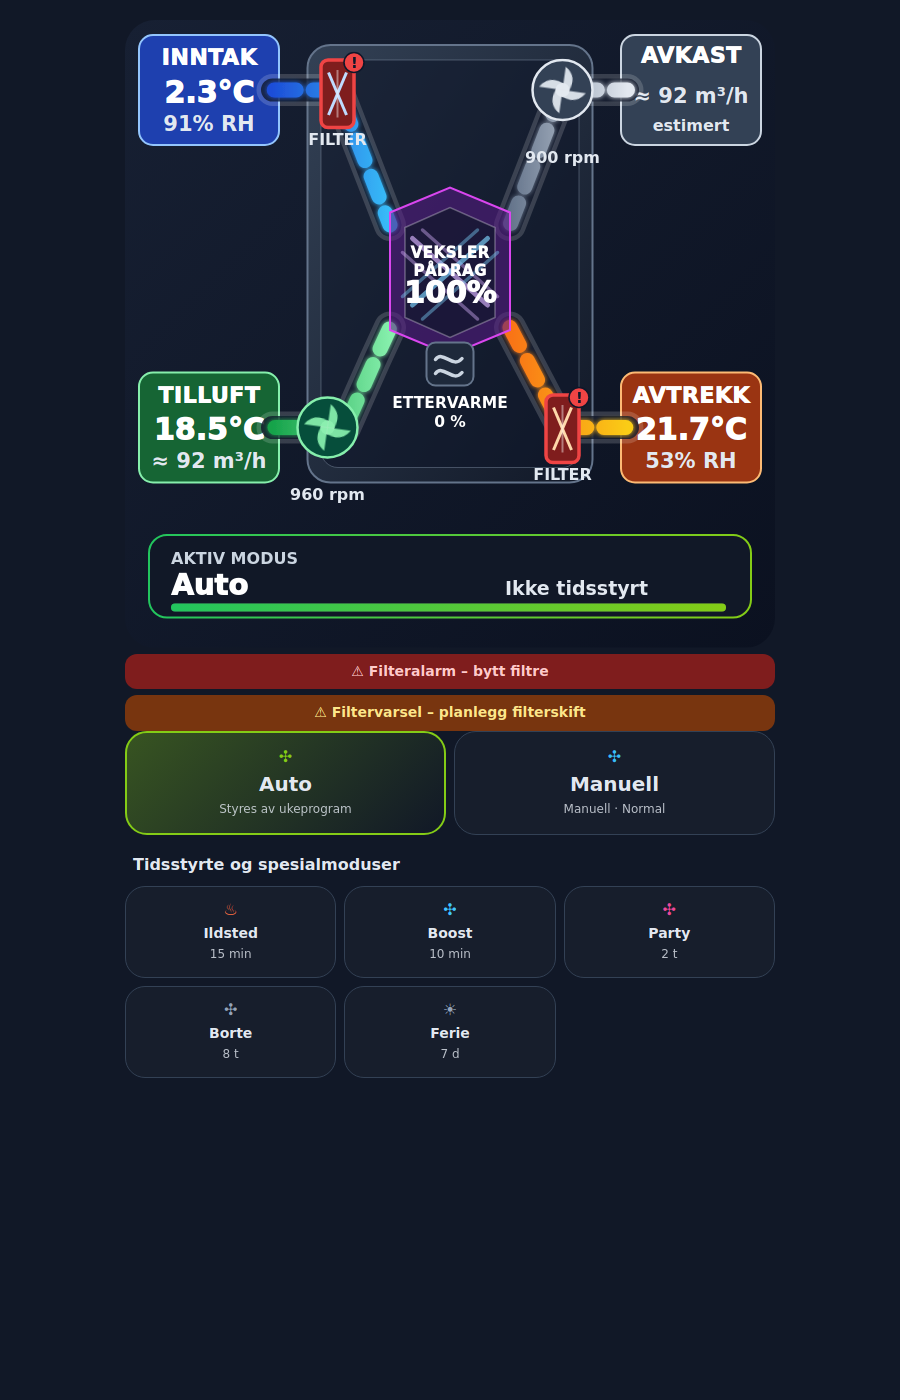
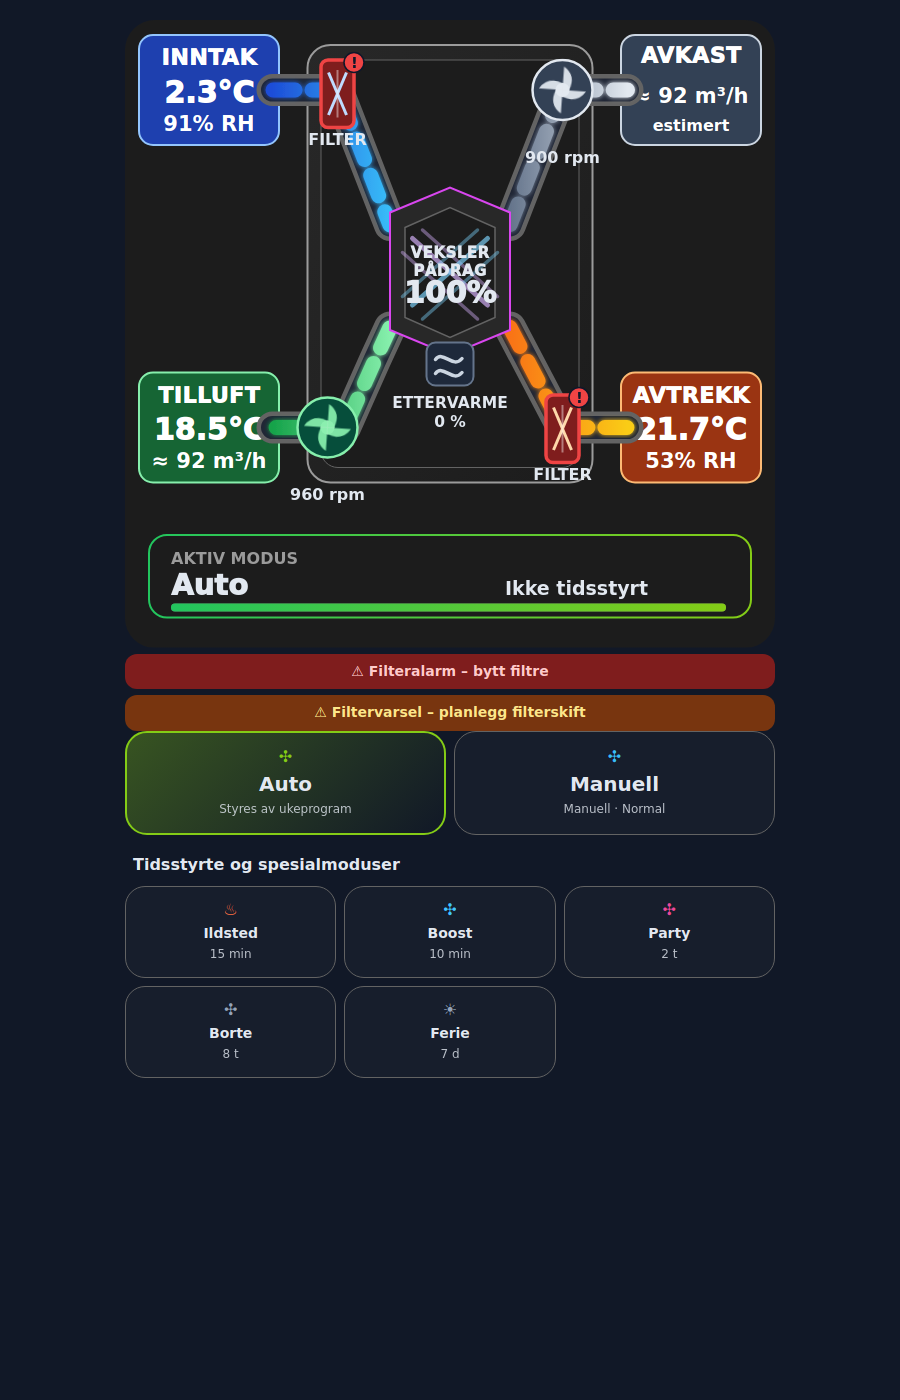
Follow Home Assistant light and dark themes in VSR300 Cards 1.1.2
Use inherited HA background, text and divider colours in the cockpit SVG.
Keep semantic air-port and alarm colours with contrasting foregrounds.
Theme changes update through CSS without a sensor update or SVG reload.

Validated light/dark/custom palettes against both OS colour preferences,
selected colour-pair contrast and 13 browser regression groups. Refresh
manual installation examples, documentation and simulated screenshots.

diff --git a/vsr300-cards.js b/vsr300-cards.js
@@ -1,4 +1,4 @@
-/* VSR300 custom cards · version 1.1.1 · 2026-10-23
+/* VSR300 custom cards · version 1.1.2 · 2026-11-02
  * SPDX-License-Identifier: MIT
  * Copyright (c) 2026 stboee
  * Based on Systemair SVG / Kontrollpanel 4.8.1.
@@ -8,7 +8,7 @@
  */
 (() => {
   'use strict';
-  const VERSION = '1.1.1';
+  const VERSION = '1.1.2';
   const FIELD = (key, label, domain, defaultId, extra = {}) => ({ key, label, domain, defaultId, ...extra });
   const SVG_FIELDS = [
     FIELD('mode', 'Rapportert driftsmodus', 'sensor', 'sensor.systemair_save_modus'),
@@ -296,13 +296,13 @@ const heaterFill = !ettervarmeKnown ? '#854d0e' : ettervarmeActive ? '#991b1b' :
       <svg role="img" aria-label="Systemair prosessillustrasjon" class="systemair-svg" viewBox="0 -250 1300 1255" preserveAspectRatio="xMidYMid meet" xmlns="http://www.w3.org/2000/svg">
         <defs>
           <linearGradient id="panelBg" x1="0" y1="0" x2="1" y2="1">
-            <stop offset="0%" stop-color="#172033" />
-            <stop offset="100%" stop-color="#0b1120" />
+            <stop offset="0%" stop-color="var(--card-background-color, #ffffff)" />
+            <stop offset="100%" stop-color="var(--card-background-color, #ffffff)" />
           </linearGradient>
 
           <linearGradient id="unitBg" x1="0" y1="0" x2="1" y2="1">
-            <stop offset="0%" stop-color="#334155" />
-            <stop offset="100%" stop-color="#111827" />
+            <stop offset="0%" stop-color="var(--secondary-background-color, #f5f5f5)" />
+            <stop offset="100%" stop-color="var(--card-background-color, #ffffff)" />
           </linearGradient>
 
           <linearGradient id="coldAir" x1="0" y1="0" x2="1" y2="0">
@@ -351,60 +351,62 @@ const heaterFill = !ettervarmeKnown ? '#854d0e' : ettervarmeActive ? '#991b1b' :
               font-family: Arial, sans-serif;
               font-size: 44px;
               font-weight: 950;
-              fill: #ffffff;
+              fill: var(--primary-text-color, #212121);
               letter-spacing: 1px;
             }
             .small {
               font-family: Arial, sans-serif;
               font-size: 42px;
               font-weight: 900;
-              fill: #e2e8f0;
+              fill: var(--primary-text-color, #212121);
             }
             .value {
               font-family: Arial, sans-serif;
               font-size: 60px;
               font-weight: 950;
-              fill: #ffffff;
+              fill: var(--primary-text-color, #212121);
             }
             .tiny {
               font-family: Arial, sans-serif;
               font-size: 33px;
               font-weight: 900;
-              fill: #dbeafe;
+              fill: var(--primary-text-color, #212121);
             }
             .micro {
               font-family: Arial, sans-serif;
               font-size: 32px;
               font-weight: 900;
-              fill: #e2e8f0;
+              fill: var(--primary-text-color, #212121);
             }
             .heater-text {
               font-family: Arial, sans-serif;
               font-size: 31px;
               font-weight: 900;
-              fill: #ffffff;
+              fill: var(--primary-text-color, #212121);
             }
             .mode-title {
               font-family: Arial, sans-serif;
               font-size: 32px;
               font-weight: 900;
-              fill: #cbd5e1;
+              fill: var(--secondary-text-color, #727272);
             }
             .mode-value {
               font-family: Arial, sans-serif;
               font-size: 58px;
               font-weight: 950;
-              fill: #ffffff;
+              fill: var(--primary-text-color, #212121);
             }
             .mode-time {
               font-family: Arial, sans-serif;
               font-size: 38px;
               font-weight: 900;
-              fill: #e2e8f0;
+              fill: var(--primary-text-color, #212121);
             }
+            /* Semantic air-port colours retain a contrasting light foreground. */
+            .port-text { fill: #ffffff; }
             .duct-base {
               fill: none;
-              stroke: rgba(255,255,255,0.16);
+              stroke: var(--divider-color, #bdbdbd);
               stroke-width: 64;
               stroke-linecap: round;
               stroke-linejoin: round;
@@ -438,30 +440,30 @@ const heaterFill = !ettervarmeKnown ? '#854d0e' : ettervarmeActive ? '#991b1b' :
           </style>
         </defs>
 
-        <rect x="0" y="-250" width="1300" height="1255" rx="34" fill="url(#panelBg)" />
+        <rect class="canvas" x="0" y="-250" width="1300" height="1255" rx="34" fill="url(#panelBg)" />
 
-        <rect x="365" y="-200" width="570" height="875" rx="46" fill="url(#unitBg)" stroke="#64748b" stroke-width="4" />
-        <rect x="392" y="-170" width="516" height="815" rx="34" fill="rgba(15,23,42,0.64)" stroke="rgba(148,163,184,0.38)" stroke-width="2" />
+        <rect class="unit-shell" x="365" y="-200" width="570" height="875" rx="46" fill="url(#unitBg)" stroke="var(--secondary-text-color, #727272)" stroke-width="4" />
+        <rect class="unit-inner" x="392" y="-170" width="516" height="815" rx="34" fill="var(--card-background-color, #ffffff)" stroke="var(--divider-color, #bdbdbd)" stroke-width="2" />
 
         <rect x="28" y="-220" width="280" height="220" rx="28" fill="#1e40af" stroke="#93c5fd" stroke-width="4" />
-        <text x="168" y="-160" text-anchor="middle" class="label">INNTAK</text>
-        <text x="168" y="-85" text-anchor="middle" class="value">${uteT}</text>
-        <text x="168" y="-29" text-anchor="middle" class="small">${uteRh}</text>
+        <text x="168" y="-160" text-anchor="middle" class="label port-text">INNTAK</text>
+        <text x="168" y="-85" text-anchor="middle" class="value port-text">${uteT}</text>
+        <text x="168" y="-29" text-anchor="middle" class="small port-text">${uteRh}</text>
 
         <rect x="28" y="455" width="280" height="220" rx="28" fill="#166534" stroke="#86efac" stroke-width="4" />
-        <text x="168" y="515" text-anchor="middle" class="label">TILLUFT</text>
-        <text x="168" y="590" text-anchor="middle" class="value">${tilluftT}</text>
-        <text x="168" y="646" text-anchor="middle" class="small">${tilluftFlow}</text>
+        <text x="168" y="515" text-anchor="middle" class="label port-text">TILLUFT</text>
+        <text x="168" y="590" text-anchor="middle" class="value port-text">${tilluftT}</text>
+        <text x="168" y="646" text-anchor="middle" class="small port-text">${tilluftFlow}</text>
 
         <rect x="992" y="-220" width="280" height="220" rx="28" fill="#334155" stroke="#cbd5e1" stroke-width="4" />
-        <text x="1132" y="-165" text-anchor="middle" class="label">AVKAST</text>
-        <text x="1132" y="-85" text-anchor="middle" class="small">${avkastFlow}</text>
-        <text x="1132" y="-29" text-anchor="middle" class="micro">estimert</text>
+        <text x="1132" y="-165" text-anchor="middle" class="label port-text">AVKAST</text>
+        <text x="1132" y="-85" text-anchor="middle" class="small port-text">${avkastFlow}</text>
+        <text x="1132" y="-29" text-anchor="middle" class="micro port-text">estimert</text>
 
         <rect x="992" y="455" width="280" height="220" rx="28" fill="#9a3412" stroke="#fdba74" stroke-width="4" />
-        <text x="1132" y="515" text-anchor="middle" class="label">AVTREKK</text>
-        <text x="1132" y="590" text-anchor="middle" class="value">${avtrekkT}</text>
-        <text x="1132" y="646" text-anchor="middle" class="small">${inneRh}</text>
+        <text x="1132" y="515" text-anchor="middle" class="label port-text">AVTREKK</text>
+        <text x="1132" y="590" text-anchor="middle" class="value port-text">${avtrekkT}</text>
+        <text x="1132" y="646" text-anchor="middle" class="small port-text">${inneRh}</text>
 
         <g opacity="${normalOpacity}">
           <path class="duct-base" d="M 295 -110 L 425 -110 L 530 160" />
@@ -493,9 +495,9 @@ const heaterFill = !ettervarmeKnown ? '#854d0e' : ettervarmeActive ? '#991b1b' :
 
         <g opacity="${exchangerOpacity}">
           <polygon points="530,135 650,85 770,135 770,370 650,420 530,370"
-                   fill="rgba(88,28,135,0.56)" stroke="#d946ef" stroke-width="4" />
+                   fill="var(--secondary-background-color, #f5f5f5)" stroke="#d946ef" stroke-width="4" />
           <polygon points="560,165 650,125 740,165 740,345 650,385 560,345"
-                   fill="rgba(15,23,42,0.70)" stroke="rgba(255,255,255,0.30)" stroke-width="3" />
+                   fill="var(--card-background-color, #ffffff)" stroke="var(--divider-color, #bdbdbd)" stroke-width="3" />
 
           <line x1="575" y1="187" x2="725" y2="320" stroke="rgba(216,180,254,0.66)" stroke-width="10" stroke-linecap="round" />
           <line x1="595" y1="170" x2="745" y2="303" stroke="rgba(216,180,254,0.42)" stroke-width="7" stroke-linecap="round" />
@@ -512,9 +514,9 @@ const heaterFill = !ettervarmeKnown ? '#854d0e' : ettervarmeActive ? '#991b1b' :
 
         <g opacity="${freeOpacity}">
           <rect x="510" y="150" width="280" height="205" rx="30" fill="rgba(12,74,110,0.88)" stroke="#38bdf8" stroke-width="5" />
-          <text x="650" y="223" text-anchor="middle" class="label">FRIKJØLING</text>
-          <text x="650" y="285" text-anchor="middle" class="small">utenom</text>
-          <text x="650" y="333" text-anchor="middle" class="small">veksler</text>
+          <text x="650" y="223" text-anchor="middle" class="label port-text">FRIKJØLING</text>
+          <text x="650" y="285" text-anchor="middle" class="small port-text">utenom</text>
+          <text x="650" y="333" text-anchor="middle" class="small port-text">veksler</text>
         </g>
 
         <rect x="392" y="-170" width="66" height="135" rx="14" class="supply-filter" data-status="${filterState}" fill="${fc ? fc[0] : '#1e3a8a'}" stroke="${fc ? fc[1] : '#93c5fd'}" stroke-width="${fc ? 7 : 4}" />
@@ -559,11 +561,11 @@ const heaterFill = !ettervarmeKnown ? '#854d0e' : ettervarmeActive ? '#991b1b' :
         </g>
         <text x="875" y="35" text-anchor="middle" class="micro">${avtrekkRpm}</text>
 
-        <rect x="48" y="780" width="1204" height="165" rx="36" fill="#111827" stroke="url(#modeGrad)" stroke-width="4" />
+        <rect class="mode-box" x="48" y="780" width="1204" height="165" rx="36" fill="var(--card-background-color, #ffffff)" stroke="url(#modeGrad)" stroke-width="4" />
         <text x="92" y="837" class="mode-title">AKTIV MODUS</text>
         <text x="92" y="900" class="mode-value">${driftText}</text>
         <text x="760" y="900" class="mode-time">${timeText}</text>
-        <rect x="92" y="917" width="1110" height="16" rx="8" fill="rgba(255,255,255,0.18)" />
+        <rect x="92" y="917" width="1110" height="16" rx="8" fill="var(--divider-color, #bdbdbd)" />
         <rect class="mode-progress" x="92" y="917" width="${Math.round(1110 * pct / 100)}" height="16" rx="8" fill="url(#modeGrad)" />
       </svg>
     </div>

diff --git a/README.md b/README.md
@@ -2,7 +2,7 @@
 
 Two Home Assistant cards for Systemair SAVE VSR300: **Systemair SVG** and
 **Systemair Kontrollpanel**, with graphical entity selection. Current card
-version: **1.1.1**. Reference setup: HA 2026.10.2 and
+version: **1.1.2**. Reference setup: HA 2026.10.2 and
 [Howard systemair_modbus 1.3.0](https://github.com/Howard0000/home-assistant-systemair-modbus).
 
 [Norsk veiledning](README.nb.md)
@@ -11,7 +11,7 @@ version: **1.1.1**. Reference setup: HA 2026.10.2 and
 
 1. Download [vsr300-cards.js](vsr300-cards.js) using GitHub's **Download raw file** button.
 2. Copy it to `/config/www/vsr300/vsr300-cards.js` in Home Assistant. Create the `vsr300` folder if needed.
-3. Add a dashboard resource with URL **`/local/vsr300/vsr300-cards.js?v=1.1.1`** and type **JavaScript module**.
+3. Add a dashboard resource with URL **`/local/vsr300/vsr300-cards.js?v=1.1.2`** and type **JavaScript module**.
 4. Fully reload the browser, edit the dashboard and add **Systemair SVG** and **Systemair Kontrollpanel** from the card picker.
 5. **Adapt the entity bindings in both cards.** Open **Entitetskoblinger**, check every field and replace the example IDs with the matching entities from your own Home Assistant installation. Clear optional fields you do not use.
 
@@ -32,6 +32,7 @@ When upgrading from 1.0.0, select the optional **A-alarm**, **B-alarm** and
 
 ## Options and displayed values
 
+- The cockpit background, neutral panels and text follow the active Home Assistant theme, including light/dark changes. Air-port and alarm colours retain their meaning and contrasting text.
 - Animations: **På** (default), **Auto – følg enheten**, or **Av**. On animates even when the device requests reduced motion; Auto follows that preference.
 - Headings are hidden by default. Enable **Vis overskrift** to show a custom heading.
 - Remaining mode time counts down locally each second between integration reports and resynchronises with new reports. This is a display estimate; the active mode continues to come from the integration.
@@ -40,6 +41,8 @@ When upgrading from 1.0.0, select the optional **A-alarm**, **B-alarm** and
 - The air paths and animations are schematic. The maintainer's local Forklaringer card is outside this package.
 
 ![Cards rendered with simulated values](images/overview-simulated.png)
+
+![Light theme rendered with simulated values](images/overview-light-simulated.png)
 
 *Simulated values and placeholder icons; Home Assistant supplies the actual icons.*
 

diff --git a/README.nb.md b/README.nb.md
@@ -1,7 +1,7 @@
 # VSR300 Cards – installasjon
 
 To Home Assistant-kort for Systemair SAVE VSR300: **Systemair SVG** og
-**Systemair Kontrollpanel**, med grafisk valg av entiteter. Kortversjon: **1.1.1**.
+**Systemair Kontrollpanel**, med grafisk valg av entiteter. Kortversjon: **1.1.2**.
 Referanseoppsettet er HA 2026.10.2 og
 [Howard systemair_modbus 1.3.0](https://github.com/Howard0000/home-assistant-systemair-modbus).
 
@@ -9,7 +9,7 @@ Referanseoppsettet er HA 2026.10.2 og
 
 1. Last ned [vsr300-cards.js](vsr300-cards.js) med GitHubs **Download raw file**-knapp.
 2. Kopier filen til `/config/www/vsr300/vsr300-cards.js` i Home Assistant. Opprett mappen `vsr300` ved behov.
-3. Legg til en dashboardressurs med URL **`/local/vsr300/vsr300-cards.js?v=1.1.1`** og type **JavaScript-modul**.
+3. Legg til en dashboardressurs med URL **`/local/vsr300/vsr300-cards.js?v=1.1.2`** og type **JavaScript-modul**.
 4. Last nettlesersiden helt på nytt. Rediger dashboardet og legg til **Systemair SVG** og **Systemair Kontrollpanel** fra kortvelgeren.
 5. **Tilpass entitetskoblingene i begge kort.** Åpne **Entitetskoblinger**, kontroller hvert felt og bytt eksempelnavnene til tilsvarende entiteter i din egen Home Assistant-installasjon. Tøm valgfrie felt du ikke bruker.
 
@@ -30,6 +30,7 @@ Ved oppdatering fra 1.0.0 velger du de valgfrie **A-alarm**, **B-alarm** og
 
 ## Valg og verdier
 
+- Cockpitens bakgrunn, nøytrale paneler og tekst følger det aktive HA-temaet, også ved bytte mellom lyst og mørkt. Luftportenes og alarmenes farger beholder betydningen og har kontrasterende tekst.
 - Animasjoner: **På** (standard), **Auto – følg enheten** eller **Av**. På animerer også når enheten ber om redusert bevegelse; Auto følger enhetens valg.
 - Overskrifter er skjult som standard. **Vis overskrift** aktiverer egen overskrift.
 - Resttid telles ned lokalt hvert sekund mellom integrasjonens rapporteringer og synkroniseres med nye rapporter. Dette er en beregnet visning; aktiv modus kommer fortsatt fra integrasjonen.

diff --git a/VERIFIKASJON.md b/VERIFIKASJON.md
@@ -1,6 +1,23 @@
-# Verifikasjon – 1.1.1 – 2026-10-23
+# Verifikasjon – 1.1.2 – 2026-11-02
 
-## Gjennomført lokalt for 1.1.1
+## Gjennomført lokalt for 1.1.2
+
+- 13 simulerte nettlesergrupper er bestått. Temakontrollen omfatter lyst, mørkt
+  og en egendefinert palett, hver med både lyst og mørkt OS-fargevalg.
+- SVG-bakgrunn, aggregatpanel, modusfelt og nøytral tekst følger arvede HA-
+  variabler. Temabytte er kontrollert uten nye HA-tilstander, SVG-utskifting
+  eller sideoppdatering.
+- Utvalgte nøytrale tekst/bakgrunn-par og hvit tekst på de fire fargede
+  luftportene har minst 4,5:1 beregnet kontrast i testpalettene. Dette er en
+  kontroll av konkrete fargepar, ikke en full tilgjengelighetssertifisering.
+- Lys desktop- og mobilvisning samt mørk visning er gjennomgått visuelt.
+- Tidligere nettleserkontroller for lokal nedtelling, animasjoner, alarmer,
+  entitetsvalg og betjening er bestått på nytt.
+
+Kontrollene bruker simulerte HA-verdier og temavariabler. Faktisk temabytte i
+brukerens Home Assistant og på Pixel 8 Pro gjenstår å bekrefte.
+
+## Historisk kontrollgrunnlag – 1.1.1, 2026-10-23
 
 - 15 kontroller med styrt klokke dekker sekundvis lokal nedtelling, alder på
   mottatt HA-verdi, tilgjengelige rapporterings-/oppdateringstidsstempler,
@@ -90,8 +107,8 @@ spesifisert dekning av alle kontroller, editorvalg eller signalkombinasjoner.
 
 ## Publiseringskontroll og gjenstående arbeid
 
-1.1.1 viderefører tidligere kortfunksjoner og gjeninnfører lokal oppdatering av
-resttidsvisningen mellom rapporter. Komplette eksempler, dokumentasjonslenker og
+1.1.2 viderefører tidligere kortfunksjoner og knytter cockpitens nøytrale farger
+til Home Assistant-temaet. Komplette eksempler, dokumentasjonslenker og
 pakkens sjekksummer kontrolleres før publisering. MIT-lisensen beholdes uendret.
 
 Full gjennomgang av HAs grafiske editor, entitetsbytte, modusbetjening og

diff --git a/SOURCES.md b/SOURCES.md
@@ -11,6 +11,8 @@ animation options, optional class-alarm lines and the agreed appearance changes.
 Version 1.1.1, 2026-10-23, restores a local display countdown between integration
 reports. The displayed remaining time is extrapolated from the last reported
 value and available HA timestamps; it is not a new register measurement.
+Version 1.1.2, 2026-11-02, uses inherited Home Assistant theme variables for cockpit
+backgrounds and neutral text. Semantic air-port and alarm colours are retained.
 
 The initial entity names are configuration presets from the maintainer's HA
 installation. They are not credentials, recorded operating data or universal
@@ -31,6 +33,7 @@ part of this repository.
 | [MDN reduced-motion media query](https://developer.mozilla.org/en-US/docs/Web/CSS/Reference/At-rules/@media/prefers-reduced-motion) | Behaviour of the optional Auto animation mode. |
 | [HA state objects](https://www.home-assistant.io/docs/configuration/state_object/) | Report/update timestamps used to anchor the local countdown display. |
 | [MDN setInterval](https://developer.mozilla.org/en-US/docs/Web/API/Window/setInterval) | Local one-second visual updates and timer cleanup. |
+| [HA theming and design tokens](https://contributors.home-assistant.io/frontend/architecture/theming/) | Inherited card/background/text/divider CSS variables for light, dark and custom themes. |
 
 The distributed JavaScript has no imports, bundled third-party JavaScript
 libraries, fonts or icon assets. `ha-icon` is provided by Home Assistant at

diff --git a/CHANGELOG.md b/CHANGELOG.md
@@ -1,5 +1,18 @@
 # Changelog
 
+## 1.1.2 — 2026-11-02
+
+- Replace fixed dark cockpit backgrounds and neutral text colours with inherited
+  Home Assistant theme variables. Canvas, unit panels, exchanger face, mode box,
+  neutral labels and progress track now follow the selected light/dark theme.
+- Keep semantic air-port and alarm colours with contrasting light foregrounds.
+- Theme changes apply through CSS without replacing the SVG or waiting for a
+  sensor update; the selected HA theme takes priority over the OS colour preference.
+- Thirteen simulated browser groups cover light/dark/custom palettes, live theme
+  changes, selected text/background contrast pairs and previous card behaviour.
+- Refresh screenshots and manual installation version examples. Actual-HA theme
+  acceptance remains open.
+
 ## 1.1.1 — 2026-10-23
 
 - Restore a local one-second countdown and progress update between integration

diff --git a/ENTITETSKART.md b/ENTITETSKART.md
@@ -1,4 +1,4 @@
-# Entitetskart – custom cards 1.1.1
+# Entitetskart – custom cards 1.1.2
 
 Startkoblingene er eksempler fra referanseoppsettet. Brukeren må kontrollere alle
 koblinger i begge kort og endre dem til tilsvarende entiteter i sin egen
